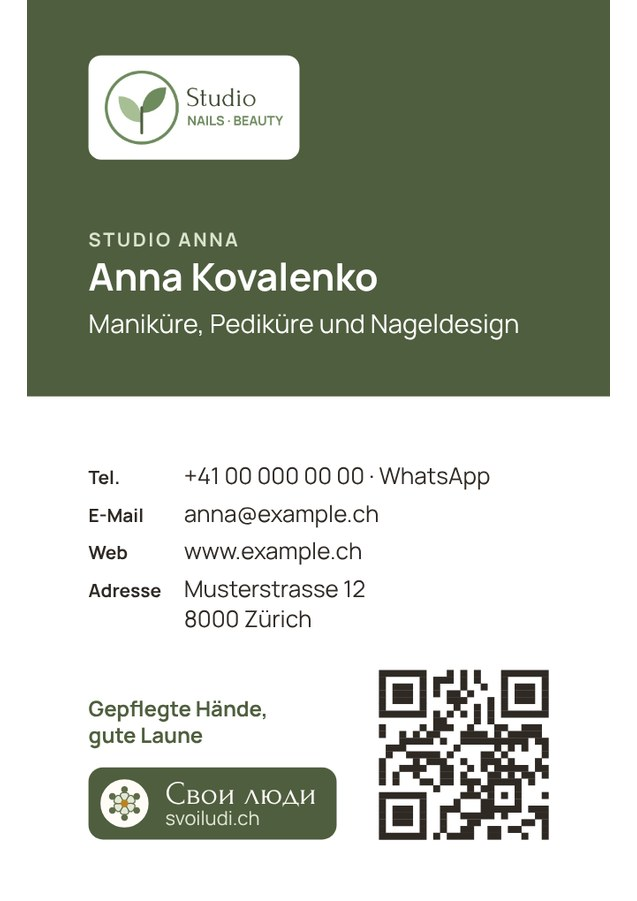
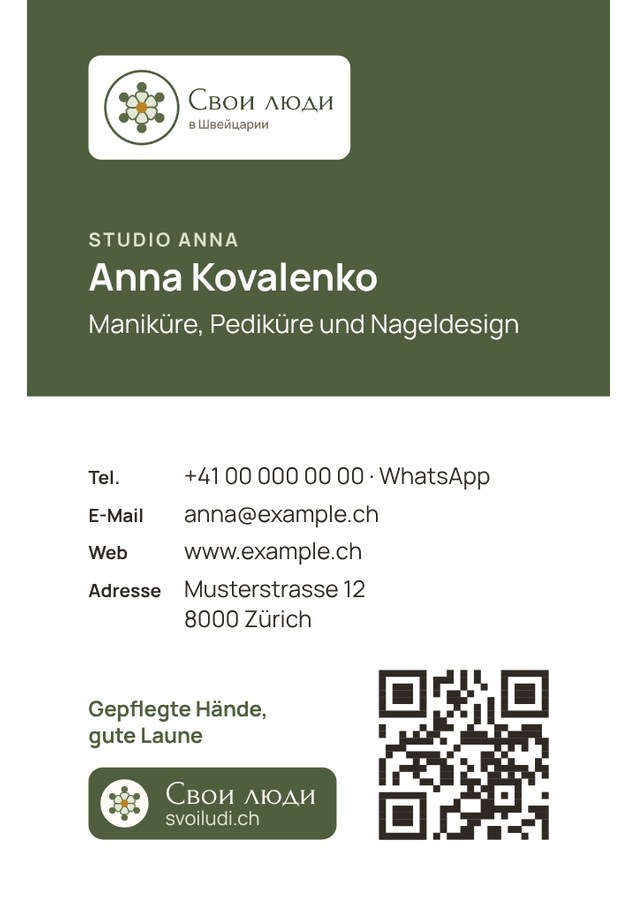
Визитка для печати: в примере логотип «Свои люди» вместо вымышленного
Claude-Session: https://claude.ai/code/session_01BC59S8ubwgnF5GR56thysM

Changed region(s): [[0.1491, 0.0622, 0.5667, 0.1865]]

diff --git a/instrumenty/vizitka/index.html b/instrumenty/vizitka/index.html
@@ -184,7 +184,7 @@ input:disabled,select:disabled{opacity:.7}
       <p class="hint" id="markNote"></p></div>
   </div>
 
-  <div class="exbar" id="exbar" hidden><span>Это пример, всё в нём вымышленное. Так будет выглядеть твоя визитка.</span><button type="button" class="btn sm" id="exOff">Вернуться к моим данным</button></div>
+  <div class="exbar" id="exbar" hidden><span>Это пример: имя и контакты вымышленные, на месте логотипа — логотип «Свои люди». Так будет выглядеть твоя визитка.</span><button type="button" class="btn sm" id="exOff">Вернуться к моим данным</button></div>
 
   <div class="work">
     <div class="form" id="fields">
@@ -664,7 +664,7 @@ function tBand(P, d, c, dr){
 /* 2. Шапка по центру: логотип, имя и чем занимаешься по центру шапки; ниже контакты по центру */
 function tBandC(P, d, c, dr){
   const url = frontQr(d, P), lg = LG(), st = cst(d), pad = c.m * 0.85 * c.k;
-  const lb = lg ? logoBox(lg, c.W * 0.4, c.CH * (c.wide ? 0.13 : 0.09)) : null, lph = lb ? lb.h + 2 * 1.1 : 0, lpw = lb ? lb.w + 2 * 1.6 : 0;
+  const lb = lg ? logoBox(lg, c.W * 0.4, c.CH * (c.wide ? 0.13 : 0.09) * c.k) : null, lph = lb ? lb.h + 2 * 1.1 : 0, lpw = lb ? lb.w + 2 * 1.6 : 0;   // логотип мельчает вместе со шрифтом
   const ih = ident(P, d, {x: c.x0, y: 0, w: c.W, k: c.k, draw: false, band: true, align: 'center'});
   const hb = Math.max(c.CH * (c.wide ? 0.38 : 0.32) * c.k, ih + (lph ? lph + c.g1 * 2 : 0) + 2 * pad);
   const q = url ? (c.wide ? Math.min(c.CH - hb - 2 * pad, 15 * c.k) : Math.min(c.W * 0.4, 16 * c.k)) : 0;
@@ -831,14 +831,26 @@ function prepLogo(img){
   const g = o.getImageData(0, 0, cw, ch), gd = g.data; for (let i = 0; i < gd.length; i += 4) { const v = Math.round(gd[i] * 0.299 + gd[i + 1] * 0.587 + gd[i + 2] * 0.114); gd[i] = gd[i + 1] = gd[i + 2] = v; } o.putImageData(g, 0, 0);
   return {c: col, g: enc(), w: cw, h: ch, small: Math.max(img.naturalWidth, img.naturalHeight) < 500};
 }
-function exampleLogo(){ // вымышленный логотип для примера: росток в круге и подпись
-  const cv = document.createElement('canvas'); cv.width = 760; cv.height = 300; const c = cv.getContext('2d');
-  c.fillStyle = '#fff'; c.fillRect(0, 0, 760, 300);
-  c.strokeStyle = '#6E8B5E'; c.lineWidth = 10; c.beginPath(); c.arc(150, 150, 120, 0, Math.PI * 2); c.stroke();
-  c.fillStyle = '#A8BE95'; c.beginPath(); c.moveTo(150, 200); c.bezierCurveTo(95, 200, 70, 160, 72, 112); c.bezierCurveTo(120, 112, 150, 145, 150, 200); c.fill();
-  c.fillStyle = '#6E8B5E'; c.beginPath(); c.moveTo(150, 168); c.bezierCurveTo(150, 115, 180, 80, 232, 82); c.bezierCurveTo(232, 135, 200, 168, 150, 168); c.fill();
-  c.strokeStyle = '#4F5E3E'; c.lineWidth = 9; c.lineCap = 'round'; c.beginPath(); c.moveTo(150, 236); c.lineTo(150, 150); c.stroke();
-  c.fillStyle = '#3E4A31'; c.font = '400 92px Forum, Georgia, serif'; c.fillText('Studio', 300, 145); c.font = '700 44px Manrope, sans-serif'; c.fillStyle = '#6E8B5E'; c.fillText('NAILS · BEAUTY', 304, 210);
+/* логотип в примере — логотип «Свои люди», как в шапке сайта: кружок «своих» и надпись (Ирина 14.10.2026, 12:42: «я это не хочу, там должны быть свои люди»;
+   раньше был вымышленный «Studio NAILS · BEAUTY» с ростком) */
+async function exampleLogo(){
+  try { await Promise.all([document.fonts.load('400 120px Forum'), document.fonts.load('600 40px Manrope')]); } catch (e) {}
+  const cv = document.createElement('canvas'); cv.width = 900; cv.height = 300; const c = cv.getContext('2d');
+  c.fillStyle = '#fff'; c.fillRect(0, 0, 900, 300);
+  const R = 135, cx = 150, cy = 150, k = R / 46;   // круг логотипа: viewBox 100, радиус 46
+  c.save(); c.translate(cx, cy); c.scale(k, k); c.translate(-50, -50);
+  c.beginPath(); c.arc(50, 50, 46, 0, Math.PI * 2); c.fillStyle = '#FFFCF8'; c.fill(); c.lineWidth = 3; c.strokeStyle = '#4F5E3E'; c.stroke();
+  const petal = new Path2D('M50 47 C42 41 40.5 33 44 31 C47 29.5 53 29.5 56 31 C59.5 33 58 41 50 47Z');
+  for (let i = 0; i < 6; i++) {
+    c.save(); c.translate(50, 50); c.rotate(i * Math.PI / 3); c.translate(-50, -50);
+    c.fillStyle = '#E3E8D6'; c.fill(petal); c.lineWidth = 2; c.strokeStyle = '#5E6B48'; c.stroke(petal);
+    c.beginPath(); c.arc(50, 24, 6.2, 0, Math.PI * 2); c.fillStyle = '#5E6B48'; c.fill();
+    c.restore();
+  }
+  c.beginPath(); c.arc(50, 50, 7, 0, Math.PI * 2); c.fillStyle = '#B98324'; c.fill();
+  c.restore();
+  c.fillStyle = '#3E4A31'; c.font = '400 118px Forum, Georgia, serif'; c.fillText('Свои люди', 320, 158);
+  c.fillStyle = '#7A6E62'; c.font = '600 46px Manrope, sans-serif'; c.fillText('в Швейцарии', 324, 228);
   const img = new Image(); img.src = cv.toDataURL('image/png'); return new Promise(r => { img.onload = () => r(prepLogo(img)); img.onerror = () => r(null); });
 }
 

diff --git a/_i18n/JOURNAL.md b/_i18n/JOURNAL.md
@@ -170,3 +170,4 @@
 - 14.10.2026, 02:20 — КОПИЯ, ветка `kopiya-vizitka`: Ирина утвердила «Визитку для печати» в стиле документов по четырём снимкам (01:21, «This we keep»). Дизайн закреплён, больше не меняем без её просьбы; «Шапка по центру» остаётся. Ждём «публикуй».
 - 14.10.2026, 12:30 — КОПИЯ, ветка `kopiya-vizitka` (Ирина 11:56 «на вариант шапка и лист добавь кьюар коды, там они лягут в правый угол и на вертикальных добавь где есть место», 11:57 «добавь на них логотип свои люди с надписью… без своих людей только при пакетах платных любых»): «Визитка для печати» — QR-код по умолчанию на лицевой стороне в правом нижнем углу (`blank()`: qr.where = front), где места нет — визитка без него и подсказка (`front`, P.qrDrop); знак «Свои люди» внизу каждой визитки (`sign`, `markIcon`, компактный в одну строку `SC`, справа от фразы без QR-кода — `foot`/`footStack`); галочка «Без знака «Свои люди»» — только с платным пакетом по личной ссылке `#paket=<id>.<ключ>` (`paketLink`, `checkPaid`, `paidPkg`: tiers, onlineTier, onlineCH, onlineCanton; Базовая — со знаком, как «Визитка PNG»), ключ — только на устройстве (`vizitkaPechat.paket.v1`). Контакты в два столбика — своей ширины, а если не помещаются — один столбик. Поля шапки уменьшаются вместе со шрифтом. Тексты, подсказки, новость (data.py, news.js, novosti), поиск, веер, превью; на скрытой ceny/ — исключение для визитки в строке о водяном знаке. Проверено: 180 сочетаний, PDF, «Без цвета», личная ссылка, 360/390/430/1280 px.
 - 14.10.2026, 12:45 — КОПИЯ, ветка `kopiya-vizitka` (Ирина 12:33: «что это за лого? где там свои люди? мой кружочек на зелёном фоне с надписью свои люди»): знак «Свои люди» на «Визитке для печати» — шалфейная плашка, как тёмный значок «Я в справочнике» (badge/): светлый кружок «Свои люди» из логотипа сайта, «Свои люди» Forum светлым и svoiludi.ch; компактный — одной строкой; «Без цвета» — светло-серая плашка и чёрный текст (`sign`, `signGeo`). Веер, превью, подсказка и новость обновлены. Проверено: 180 сочетаний, квадраты, PDF, «Без цвета».
+- 14.10.2026, 12:55 — КОПИЯ, ветка `kopiya-vizitka` (Ирина 12:42, со снимком логотипа «Studio NAILS · BEAUTY» из примера: «я это не хочу, там должны быть свои люди»): в примере «Визитки для печати» вместо вымышленного логотипа с ростком — логотип «Свои люди», как в шапке сайта: кружок «своих», «Свои люди» Forum и «в Швейцарии» (`exampleLogo`); полоса примера: «имя и контакты вымышленные, на месте логотипа — логотип «Свои люди»». В «Шапке по центру» логотип мельчает вместе со шрифтом. Веер и превью ссылки пересобраны.
